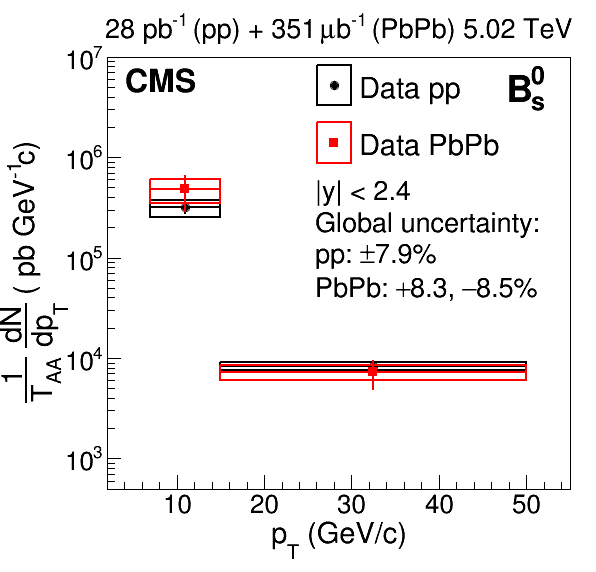
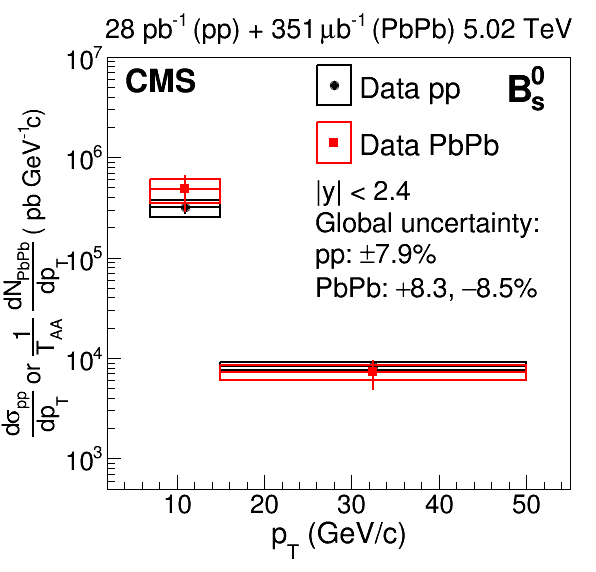
update

Changed region(s): [[0.0, 0.1783, 0.1208, 0.7727]]

diff --git a/CrossSection/plotCrossSection/plotCrossSection/canvasSigmaBplusRatiopp_AddPbPb.C b/CrossSection/plotCrossSection/plotCrossSection/canvasSigmaBplusRatiopp_AddPbPb.C
@@ -1,7 +1,7 @@
 void canvasSigmaBplusRatiopp_AddPbPb()
 {
 //=========Macro generated from canvas: cSigma/
-//=========  (Wed Aug  1 01:56:59 2018) by ROOT version6.02/13
+//=========  (Fri Aug  3 00:40:33 2018) by ROOT version6.02/13
    TCanvas *cSigma = new TCanvas("cSigma", "",0,0,600,600);
    gStyle->SetOptStat(0);
    gStyle->SetOptTitle(0);
@@ -11,10 +11,9 @@ void canvasSigmaBplusRatiopp_AddPbPb()
    cSigma->SetBorderMode(0);
    cSigma->SetBorderSize(2);
    cSigma->SetLogy();
-   cSigma->SetLeftMargin(0.21);
-   cSigma->SetRightMargin(0.013);
+   cSigma->SetLeftMargin(0.18);
+   cSigma->SetRightMargin(0.043);
    cSigma->SetBottomMargin(0.145);
-   cSigma->SetTopMargin(0.1);
    cSigma->SetFrameBorderMode(0);
    cSigma->SetFrameBorderMode(0);
    
@@ -38,8 +37,8 @@ void canvasSigmaBplusRatiopp_AddPbPb()
    hemptySigma1->GetYaxis()->CenterTitle(true);
    hemptySigma1->GetYaxis()->SetLabelFont(42);
    hemptySigma1->GetYaxis()->SetLabelSize(0.048);
-   hemptySigma1->GetYaxis()->SetTitleSize(0.055);
-   hemptySigma1->GetYaxis()->SetTitleOffset(1.6);
+   hemptySigma1->GetYaxis()->SetTitleSize(0.045);
+   hemptySigma1->GetYaxis()->SetTitleOffset(1.7);
    hemptySigma1->GetYaxis()->SetTitleFont(42);
    hemptySigma1->GetZaxis()->SetLabelFont(42);
    hemptySigma1->GetZaxis()->SetLabelSize(0.035);

diff --git a/CrossSection/CrossSectionRatio.C b/CrossSection/CrossSectionRatio.C
@@ -263,6 +263,8 @@ void CrossSectionRatio(TString inputFONLL="ROOTfiles/output_inclusiveDd0meson_5T
 		if(plotFONLL) leg_CS->AddEntry(gaeBplusReference,"FONLL pp ref.","f");//PAS
 		leg_CS->Draw("same");
 		hemptySigma->GetYaxis()->SetTitle("#frac{d#sigma_{pp}}{dp_{T}} or #frac{1}{T_{AA}} #frac{dN_{PbPb}}{dp_{T}} ( pb GeV^{-1}c)");
+        hemptySigma->GetYaxis()->SetTitleSize(0.045/tpadr);
+        hemptySigma->GetYaxis()->SetTitleOffset(1.7*tpadr);
 		texGlobal = new TLatex(0.53,0.594,Form("Global uncertainty:"));
 		TLatex* texGlobal_pp = new TLatex(0.53,1-(1-0.54)/tpadr,uncGlobal_pp);
 		TLatex* texGlobal_PbPb = new TLatex(0.53,1-(1-0.48)/tpadr,uncGlobal_PbPb);

diff --git a/CrossSection/plotCrossSection/plotCrossSection/canvasSigmaBplusRatiopp.C b/CrossSection/plotCrossSection/plotCrossSection/canvasSigmaBplusRatiopp.C
@@ -1,7 +1,7 @@
 void canvasSigmaBplusRatiopp()
 {
 //=========Macro generated from canvas: cSigma/
-//=========  (Wed Aug  1 01:56:58 2018) by ROOT version6.02/13
+//=========  (Fri Aug  3 00:40:32 2018) by ROOT version6.02/13
    TCanvas *cSigma = new TCanvas("cSigma", "",0,0,600,600);
    gStyle->SetOptStat(0);
    gStyle->SetOptTitle(0);
